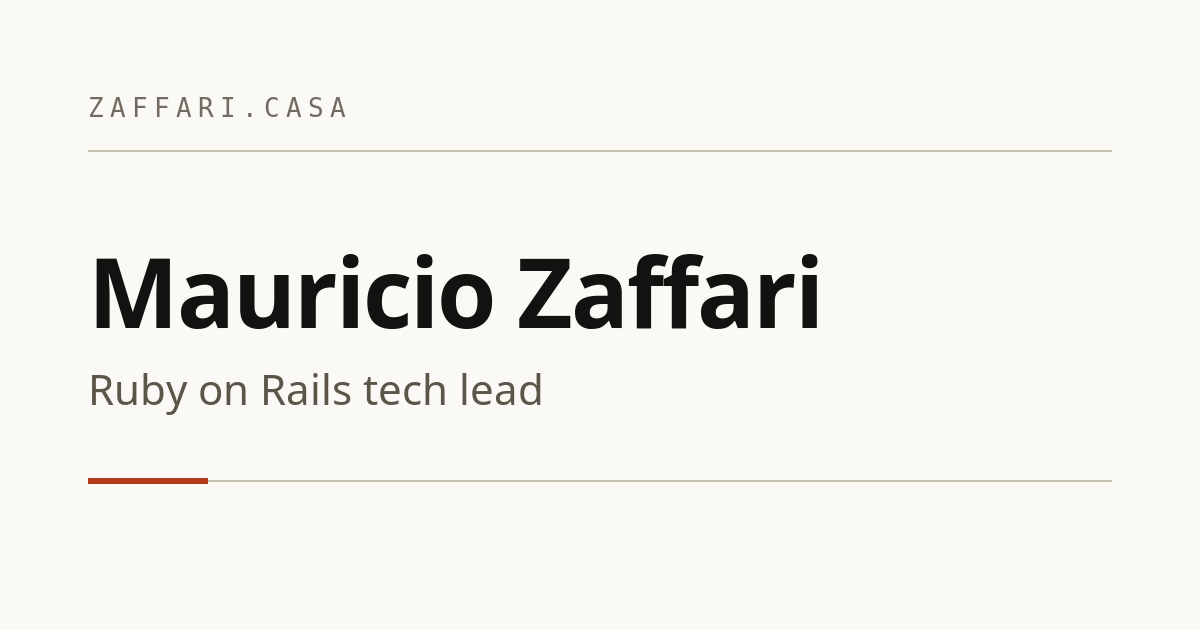
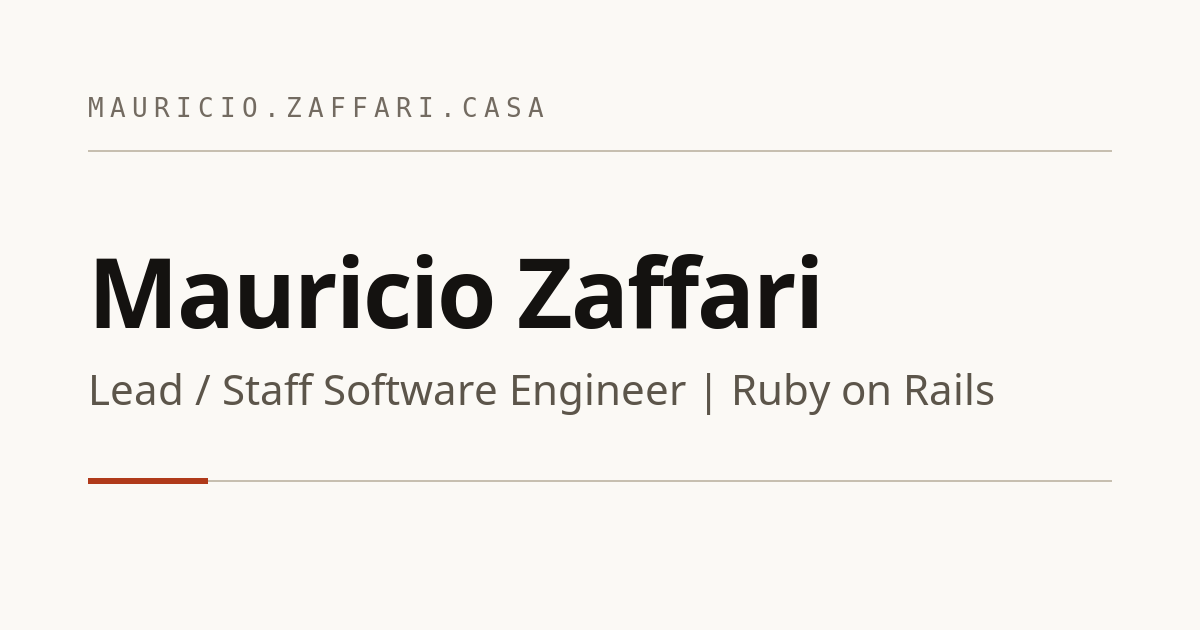
Reposition for lead/staff roles
Looper employment ended 2026-09: records moved to past tense with an end
date, coverage metric is 99.1% at departure keeping the 72%-80% replatform
delta as the case study's own number. Public contact is gmail; the zaffari
casa alias stays allowlisted. Headline now names the level sought: Lead /
Staff Software Engineer | Ruby on Rails, both locales. Share card and icon
regenerated for the new headline.

Changed region(s): [[0.0617, 0.573, 0.8325, 0.6635], [0.0617, 0.1508, 0.4625, 0.181]]

diff --git a/spec/models/content/safety_scanner_spec.rb b/spec/models/content/safety_scanner_spec.rb
@@ -30,7 +30,11 @@ RSpec.describe Content::SafetyScanner do
   end
 
   describe 'the contact allowlist' do
-    it 'admits the one approved address' do
+    it 'admits the approved primary address' do
+      expect(scanner.scan('Write to mauriciozaffari@gmail.com.', source: 'x')).to be_empty
+    end
+
+    it 'admits the forwarding alias on the owner domain' do
       expect(scanner.scan('Write to mauricio@zaffari.casa.', source: 'x')).to be_empty
     end
 
@@ -38,8 +42,12 @@ RSpec.describe Content::SafetyScanner do
       expect(scanner.scan('Write to someone.else@zaffari.casa.', source: 'x')).not_to be_empty
     end
 
+    it 'rejects another gmail address with the same local part shape' do
+      expect(scanner.scan('Write to mauricio.zaffari@gmail.com.', source: 'x')).not_to be_empty
+    end
+
     it 'rejects a second address sharing a line with the approved one' do
-      line = 'mauricio@zaffari.casa and nobody@example.invalid'
+      line = 'mauriciozaffari@gmail.com and nobody@example.invalid'
 
       expect(scanner.scan(line, source: 'x')).not_to be_empty
     end

diff --git a/app/models/content/safety_scanner.rb b/app/models/content/safety_scanner.rb
@@ -9,9 +9,10 @@ module Content
   # fixture in spec/fixtures, and that spec fails if a rule is added here
   # without one.
   class SafetyScanner
-    # The one contact address the SPEC's allowlist admits. It is deliberately
-    # public, and it is also this repository's commit identity.
-    ALLOWED = ['mauricio@zaffari.casa'].freeze
+    # The contact addresses the SPEC's allowlist admits: the primary public
+    # address (also this repository's commit identity), and the forwarding
+    # alias on the owner's own domain. Both are deliberately public.
+    ALLOWED = ['mauriciozaffari@gmail.com', 'mauricio@zaffari.casa'].freeze
 
     Rule = Data.define(:name, :pattern)
 

diff --git a/spec/requests/resume_spec.rb b/spec/requests/resume_spec.rb
@@ -46,7 +46,7 @@ RSpec.describe 'Resume download' do
     it 'carries the approved contact surface and nothing beside it' do
       text = pdf_text(bytes)
 
-      expect(text).to include('mauricio@zaffari.casa')
+      expect(text).to include('mauriciozaffari@gmail.com')
       expect(text).not_to match(/\btel:/i)
       expect(text).to include(*Content.repository.site_profile(locale: 'en').record[:links]
         .map { |link| Resume.display_address(link[:url]) })

diff --git a/data/en/leadership.md b/data/en/leadership.md
@@ -4,16 +4,16 @@ type: leadership
 locale: en
 status: published
 confidentiality: public
-updated: "2026-08-06"
+updated: "2026-10-03"
 title: How I work
 ---
 
-I lead a small engineering team and I never stopped writing the code. I am
-still the top contributor to the codebase I lead, and that combination is
-deliberate rather than a failure to delegate: I review code I could have
-written myself, and I do not hand down an architecture I am not willing to
-build. The leverage runs both ways — through the decisions other people
-inherit, and through the work I ship.
+I led a small engineering team and never stopped writing the code. I remained
+the top contributor to the codebase I led, and that combination was
+deliberate rather than a failure to delegate: I reviewed code I could have
+written myself, and I did not hand down an architecture I was not willing to
+build. The leverage ran both ways — through the decisions other people
+inherit, and through the work I shipped.
 
 **I find the cause before I write the fix.** A slow page usually has more than
 one reason for being slow, and the first one you find is rarely the expensive
@@ -39,13 +39,13 @@ principle I keep returning to: a controller with no matching model is a smell,
 because a state change on a record is almost always that record's `update`, not
 a new controller.
 
-**Releases need a rollback plan you have actually thought about.** I own release
-checklists: migration reversibility, queue drain, a recorded last-known-good
-reference. When our release tooling hit a merge pattern that made rebasing
-unsafe, I fixed the tool and wrote down why, so the next person meets a
-documented failure mode instead of a mystery.
+**Releases need a rollback plan you have actually thought about.** I owned
+release checklists: migration reversibility, queue drain, a recorded
+last-known-good reference. When our release tooling hit a merge pattern that
+made rebasing unsafe, I fixed the tool and wrote down why, so the next person
+meets a documented failure mode instead of a mystery.
 
 **I write things down.** Architecture decisions, domain notes on the subsystems
-that surprise people, and the AI agent standards our organisation now works to.
-A decision that lives only in a Slack thread has to be re-litigated every time
-someone new asks.
+that surprise people, and the AI agent standards the organisations I have led
+work to. A decision that lives only in a Slack thread has to be re-litigated
+every time someone new asks.

diff --git a/data/pt-BR/leadership.md b/data/pt-BR/leadership.md
@@ -4,16 +4,16 @@ type: leadership
 locale: pt-BR
 status: published
 confidentiality: public
-updated: "2026-08-06"
+updated: "2026-10-03"
 title: Como eu trabalho
 ---
 
-Lidero um time pequeno de engenharia e nunca parei de escrever código. Continuo
-sendo o maior contribuidor da base de código que lidero, e essa combinação é
-deliberada, não uma falha em delegar: reviso código que eu mesmo poderia ter
-escrito, e não imponho uma arquitetura que eu não esteja disposto a construir.
-A alavancagem funciona nas duas direções — pelas decisões que as outras pessoas
-herdam e pelo trabalho que eu entrego.
+Liderei um time pequeno de engenharia e nunca parei de escrever código.
+Permaneci o maior contribuidor da base de código que liderei, e essa combinação
+foi deliberada, não uma falha em delegar: revisava código que eu mesmo poderia
+ter escrito, e não impunha uma arquitetura que eu não estivesse disposto a
+construir. A alavancagem funcionou nas duas direções — pelas decisões que as
+outras pessoas herdam e pelo trabalho que eu entrego.
 
 **Encontro a causa antes de escrever a correção.** Uma página lenta normalmente
 tem mais de um motivo para ser lenta, e o primeiro que você encontra raramente
@@ -41,7 +41,7 @@ correspondente é um mau sinal, porque uma mudança de estado em um registro é
 quase sempre o `update` daquele registro, e não um controller novo.
 
 **Releases precisam de um plano de rollback que alguém realmente pensou.** Eu
-cuido dos checklists de release: reversibilidade das migrações, drenagem das
+cuidava dos checklists de release: reversibilidade das migrações, drenagem das
 filas, uma referência registrada do último estado bom conhecido. Quando nossa
 ferramenta de release encontrou um padrão de merge que tornava o rebase
 inseguro, corrigi a ferramenta e escrevi o motivo, para que a próxima pessoa
@@ -49,5 +49,5 @@ encontre um modo de falha documentado em vez de um mistério.
 
 **Eu registro as coisas por escrito.** Decisões de arquitetura, notas de
 domínio sobre os subsistemas que surpreendem as pessoas e os padrões de agentes
-de IA que nossa organização segue hoje. Uma decisão que vive apenas em uma
+de IA que as organizações que liderei seguem. Uma decisão que vive apenas em uma
 thread do Slack precisa ser rediscutida cada vez que alguém novo pergunta.

diff --git a/data/pt-BR/site-profile.md b/data/pt-BR/site-profile.md
@@ -4,9 +4,9 @@ type: site_profile
 locale: pt-BR
 status: published
 confidentiality: public
-updated: "2026-08-06"
+updated: "2026-10-03"
 name: Mauricio Zaffari
-headline: Tech lead de Ruby on Rails
+headline: Lead / Staff Software Engineer | Ruby on Rails
 region: Brasil
 timezone: UTC-3
 work_mode: >-
@@ -20,13 +20,14 @@ links:
   - label: RubyGems
     url: https://rubygems.org/profiles/mauriciozaffari
   - label: Email
-    url: mailto:mauricio@zaffari.casa
+    url: mailto:mauriciozaffari@gmail.com
 ---
 
 Dezoito anos construindo sistemas em Ruby on Rails, e ainda escolho Rails de
-propósito. Lidero a engenharia de uma plataforma SaaS de analytics usada por
-Disney, Warner Bros, Sony e NBCUniversal, onde sou o maior contribuidor de
-todos os tempos do código principal.
+propósito. Até setembro de 2026 liderei a engenharia de uma plataforma SaaS de
+analytics usada por Disney, Warner Bros, Sony e NBCUniversal, onde terminei
+como o maior contribuidor de todos os tempos do código principal. Estou
+aberto a posições de lead e staff de engenharia.
 
 A maior parte do meu trabalho se parece com uma de três coisas: deixar um
 sistema lento rápido o bastante para as pessoas pararem de contorná-lo, quebrar
@@ -35,8 +36,8 @@ ser a arquitetura e depois convive com essa decisão. Levei aplicações Rails d
 versão 2 até a versão 8, o que significa que migrei a maior parte dos erros que
 o framework desde então corrigiu.
 
-Também construo e opero meu próprio produto. O Inscripto é uma plataforma
-multi-tenant de eventos esportivos que lida com inscrições reais e pagamentos
+Também construo e opero meu próprio produto, sozinho. O Inscripto é uma
+plataforma multi-tenant de eventos esportivos que lida com inscrições reais e pagamentos
 reais para ligas de kart e de tênis, o que me mantém honesto sobre a diferença
 entre um sistema que vai bem em uma demonstração e um sistema que sobrevive a
 uma manhã de sábado.

diff --git a/data/en/site-profile.md b/data/en/site-profile.md
@@ -4,9 +4,9 @@ type: site_profile
 locale: en
 status: published
 confidentiality: public
-updated: "2026-08-06"
+updated: "2026-10-03"
 name: Mauricio Zaffari
-headline: Ruby on Rails tech lead
+headline: Lead / Staff Software Engineer | Ruby on Rails
 region: Brazil
 timezone: UTC-3
 work_mode: Remote, with daily overlap across UK and US business hours
@@ -18,13 +18,14 @@ links:
   - label: RubyGems
     url: https://rubygems.org/profiles/mauriciozaffari
   - label: Email
-    url: mailto:mauricio@zaffari.casa
+    url: mailto:mauriciozaffari@gmail.com
 ---
 
 Eighteen years building Ruby on Rails systems, and still choosing Rails on
-purpose. I lead engineering for a SaaS analytics platform used by Disney,
-Warner Bros, Sony and NBCUniversal, where I am the top all-time contributor to
-the core codebase.
+purpose. Until September 2026 I led engineering for a SaaS analytics platform
+used by Disney, Warner Bros, Sony and NBCUniversal, where I finished as the top
+all-time contributor to the core codebase. I am now open to lead and staff
+engineering roles.
 
 Most of my work looks like one of three things: making a slow system fast
 enough that people stop working around it, breaking a monolith apart without
@@ -33,7 +34,8 @@ is going to be and then living with that decision. I have taken Rails
 applications from version 2 through version 8, which means I have migrated
 most of the mistakes the framework has since fixed.
 
-I also build and run my own product. Inscripto is a multi-tenant sports event
+I also build and run my own product, on my own. Inscripto is a multi-tenant
+sports event
 platform that handles real signups and real payments for karting and tennis
 leagues, which keeps me honest about the difference between a system that
 demos well and a system that survives a Saturday morning.

diff --git a/features/curated-content/SPEC.md b/features/curated-content/SPEC.md
@@ -175,6 +175,19 @@ pairing is what lets a record be located from a citation alone, which
       [deployment](../deployment/SPEC.md). The same address is set as this
       repository's local `user.email`, so commit metadata — itself a published
       surface on a public repo — stays inside the contact allowlist.
+- [x] 2026-10-03 repositioning: the public contact address is now
+      `mauriciozaffari@gmail.com` (owner decision — the crawler/spam concern
+      that motivated the alias was dropped, and gmail is already the commit
+      identity). The alias `mauricio@zaffari.casa` stays in the scanner's
+      allowlist as a second approved address on the owner's own domain. The
+      headline is now `Lead / Staff Software Engineer | Ruby on Rails` in both
+      locales — job titles stay untranslated, so the pt-BR judgement call now
+      covers *Lead Software Engineer* and *Lead Engineer* as well as
+      *Tech Lead*. Looper gained `end_date: "2026-09"` (the employment ended
+      2026-09-30) and its record, the leadership record and the profile prose
+      moved to past tense; the coverage metric is 99.1% *at departure*, which
+      keeps the case study's 72%→80% replatform delta as the only home for that
+      number.
 - [x] Confirm the Webstores 2.0 test-coverage figure. Resolved: both numbers
       are real but describe different things. The replatforming moved coverage
       from 72% to 80%; 98.6% is the codebase's current figure, which the resume

diff --git a/data/pt-BR/experience/inscripto.md b/data/pt-BR/experience/inscripto.md
@@ -4,18 +4,20 @@ type: experience
 locale: pt-BR
 status: published
 confidentiality: public
-updated: "2026-08-06"
+updated: "2026-10-03"
 organization: Inscripto
-role: Fundador, Arquiteto de Produto e Tech Lead
+role: Solo Founder, Arquiteto de Produto e Lead Engineer
 start_date: "2018"
 prominence: primary
 location: Brasil
 ---
 
 O Inscripto é uma plataforma multi-tenant de gestão e inscrição em eventos
-esportivos que construí e ainda opero, substituindo fichas de papel e
-pagamentos manuais em ligas de kart e de tênis. Já processou 109 eventos, 3.603
-cobranças e mais de R$ 482.800 em pagamentos online. A stack é Rails 8,
-PostgreSQL, Hotwire, Tailwind e um frontend PWA, com Stripe, MercadoPago e PIX
-para pagamentos, e usa a API do Gemini para transformar resultados de partidas
-enviados soltos pelo WhatsApp em classificações atualizadas.
+esportivos que construí e ainda opero como sua única pessoa — produto,
+arquitetura, engenharia e operações de ponta a ponta —, substituindo fichas de
+papel e pagamentos manuais em ligas de kart e de tênis. Já processou 109
+eventos, 3.603 cobranças e mais de R$ 482.800 em pagamentos online. A stack é
+Rails 8, PostgreSQL, Hotwire, Tailwind e um frontend PWA, com Stripe,
+MercadoPago e PIX para pagamentos, e usa a API do Gemini para transformar
+resultados de partidas enviados soltos pelo WhatsApp em classificações
+atualizadas.

diff --git a/data/pt-BR/experience/looper-insights.md b/data/pt-BR/experience/looper-insights.md
@@ -4,18 +4,20 @@ type: experience
 locale: pt-BR
 status: published
 confidentiality: public
-updated: "2026-08-06"
+updated: "2026-10-03"
 organization: Looper Insights
-role: Tech Lead de Software
+role: Lead Software Engineer
 start_date: "2018-07"
+end_date: "2026-09"
 prominence: primary
 location: "Londres, Reino Unido (remoto)"
 ---
 
 A Looper Insights é uma plataforma global SaaS de analytics para estúdios e
 serviços de streaming. Estive lá em três passagens: desenvolvedor full-stack em
-2018, desenvolvedor sênior a partir de 2020 e tech lead desde março de 2022.
-Sou o maior contribuidor de todos os tempos do código principal, que atende
-Disney, Warner Bros, Sony e NBCUniversal e responde por 55% da receita da
-empresa. Liderei a troca de plataforma do Webstores 2.0 e a migração de
-autenticação de toda a empresa para o AWS Cognito.
+2018, desenvolvedor sênior a partir de 2020 e tech lead de março de 2022 até
+setembro de 2026. Terminei como o maior contribuidor de todos os tempos do
+código principal, que atende Disney, Warner Bros, Sony e NBCUniversal e
+responde por 55% da receita da empresa. Liderei a troca de plataforma do
+Webstores 2.0 e a migração de autenticação de toda a empresa para o AWS
+Cognito.

diff --git a/data/en/experience/looper-insights.md b/data/en/experience/looper-insights.md
@@ -4,18 +4,19 @@ type: experience
 locale: en
 status: published
 confidentiality: public
-updated: "2026-08-06"
+updated: "2026-10-03"
 organization: Looper Insights
 role: Lead Software Engineer
 start_date: "2018-07"
+end_date: "2026-09"
 prominence: primary
 location: "London, UK (remote)"
 ---
 
 Looper Insights is a global SaaS analytics platform for studios and streaming
-services. I have been there across three stints: full-stack developer in 2018,
-senior developer from 2020, and tech lead since March 2022. I am the top
-all-time contributor to the core codebase, which serves Disney, Warner Bros,
-Sony and NBCUniversal and accounts for 55% of company revenue. I led the
-Webstores 2.0 replatforming and the company-wide authentication migration to
-AWS Cognito.
+services. I was there across three stints: full-stack developer in 2018,
+senior developer from 2020, and tech lead from March 2022 until September
+2026. I finished as the top all-time contributor to the core codebase, which
+serves Disney, Warner Bros, Sony and NBCUniversal and accounts for 55% of
+company revenue. I led the Webstores 2.0 replatforming and the company-wide
+authentication migration to AWS Cognito.

diff --git a/data/en/experience/inscripto.md b/data/en/experience/inscripto.md
@@ -4,17 +4,18 @@ type: experience
 locale: en
 status: published
 confidentiality: public
-updated: "2026-08-06"
+updated: "2026-10-03"
 organization: Inscripto
-role: Founder, Product Architect and Lead Engineer
+role: Solo Founder, Product Architect and Lead Engineer
 start_date: "2018"
 prominence: primary
 location: Brazil
 ---
 
 Inscripto is a multi-tenant sports event management and signup platform I built
-and still run, replacing paper signups and manual payments for karting and
-tennis leagues. It has handled 109 events, 3,603 charges and more than
+and still run as its only person — product, architecture, engineering and
+operations end to end — replacing paper signups and manual payments for karting
+and tennis leagues. It has handled 109 events, 3,603 charges and more than
 R$ 482,800 in online payments. The stack is Rails 8, PostgreSQL, Hotwire,
 Tailwind and a PWA frontend, with Stripe, MercadoPago and PIX for payments, and
 it uses the Gemini API to parse unstructured WhatsApp match results into live
